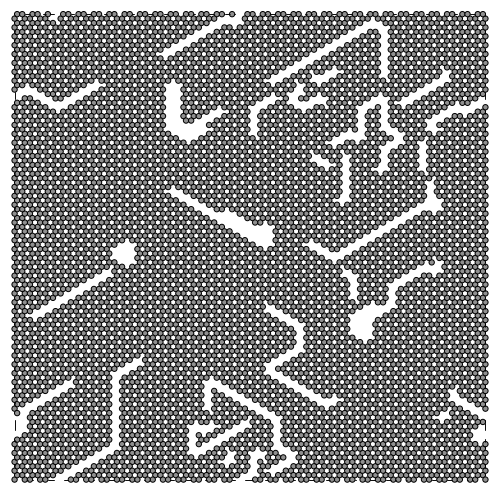
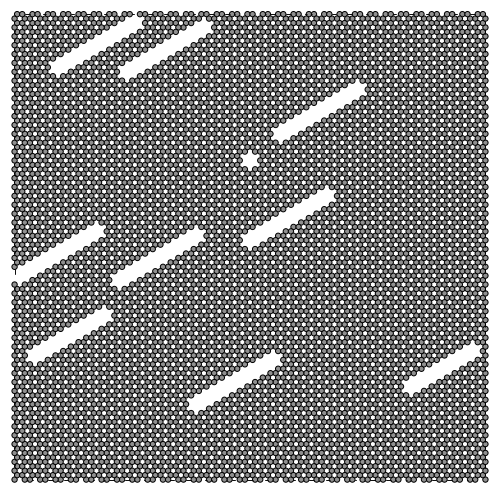
new RW draft

diff --git a/graphene_sheet/RN_walks.py b/graphene_sheet/RN_walks.py
@@ -43,7 +43,8 @@ class RW_Generator:
         self.avoid_unvalid = avoid_unvalid
         self.grid_start = grid_start
         self.center_elem = center_elem
-        self.initial_avoid_clustering = avoid_clustering
+        # self.initial_avoid_clustering = avoid_clustering
+        self.avoid_clustering = avoid_clustering
         self.centering = centering # Move CM as close to starting point as possible
         self.stay_or_break = stay_or_break
         if seed is not None: # Not working properly... XXX
@@ -94,9 +95,7 @@ class RW_Generator:
         if self.periodic:
             assert np.all(self.size%2 == 0), f"The size of the sheet {self.size} must have even side lengths to enable periodic boundaries."
     
-        self.avoid_clustering = self.initial_avoid_clustering
-
-    
+        
         # Ideas for further features
         # TODO: Single walk copied to multiple locations
         # TODO: Distributions on RN walk length?
@@ -214,8 +213,8 @@ class RW_Generator:
             detect = all_visited or not_vertically_spanning
                         
             if detect: # Isolated cluster detected
-                print(f'Isolated cluster detected | {self.avoid_clustering} attempts left')
                 self.avoid_clustering -= 1
+                print(f'Isolated cluster detected | {self.avoid_clustering} attempts left')
                 if self.avoid_clustering > 0:
                     self.generate()
                 else:

diff --git a/config_builder/build_config.py b/config_builder/build_config.py
@@ -420,7 +420,7 @@ def RW_dataset(shape = (62,106)):
     
     param = {   'size': (62, 106),
                 'periodic': True,
-                'avoid_clustering': 0} #XXX -> 5-10
+                'avoid_clustering': 5} #XXX -> 5-10
     
     
     direc = {'up': (0, 1), 
@@ -602,7 +602,7 @@ if __name__ == "__main__":
     
     
     
-    # RW = RW_Generator(size = (62, 106), stay_or_break = 0.95, num_walks = 1,  max_steps = 50, min_dis = 3, bias = [(0, 1), 0], RN6 = False, periodic = True, avoid_unvalid = True, grid_start = True, center_elem = False,  centering = False, avoid_clustering = 0)
+    # RW = RW_Generator(size = (62, 106), stay_or_break = 0, num_walks = 50,  max_steps = 50, min_dis = 0, bias = [(0, 1), 0], RN6 = False, periodic = True, avoid_unvalid = True, grid_start = True, center_elem = False,  centering = False, avoid_clustering = 5)
     # mat = RW.generate()
     # builder = config_builder(mat)
     # builder.view()
